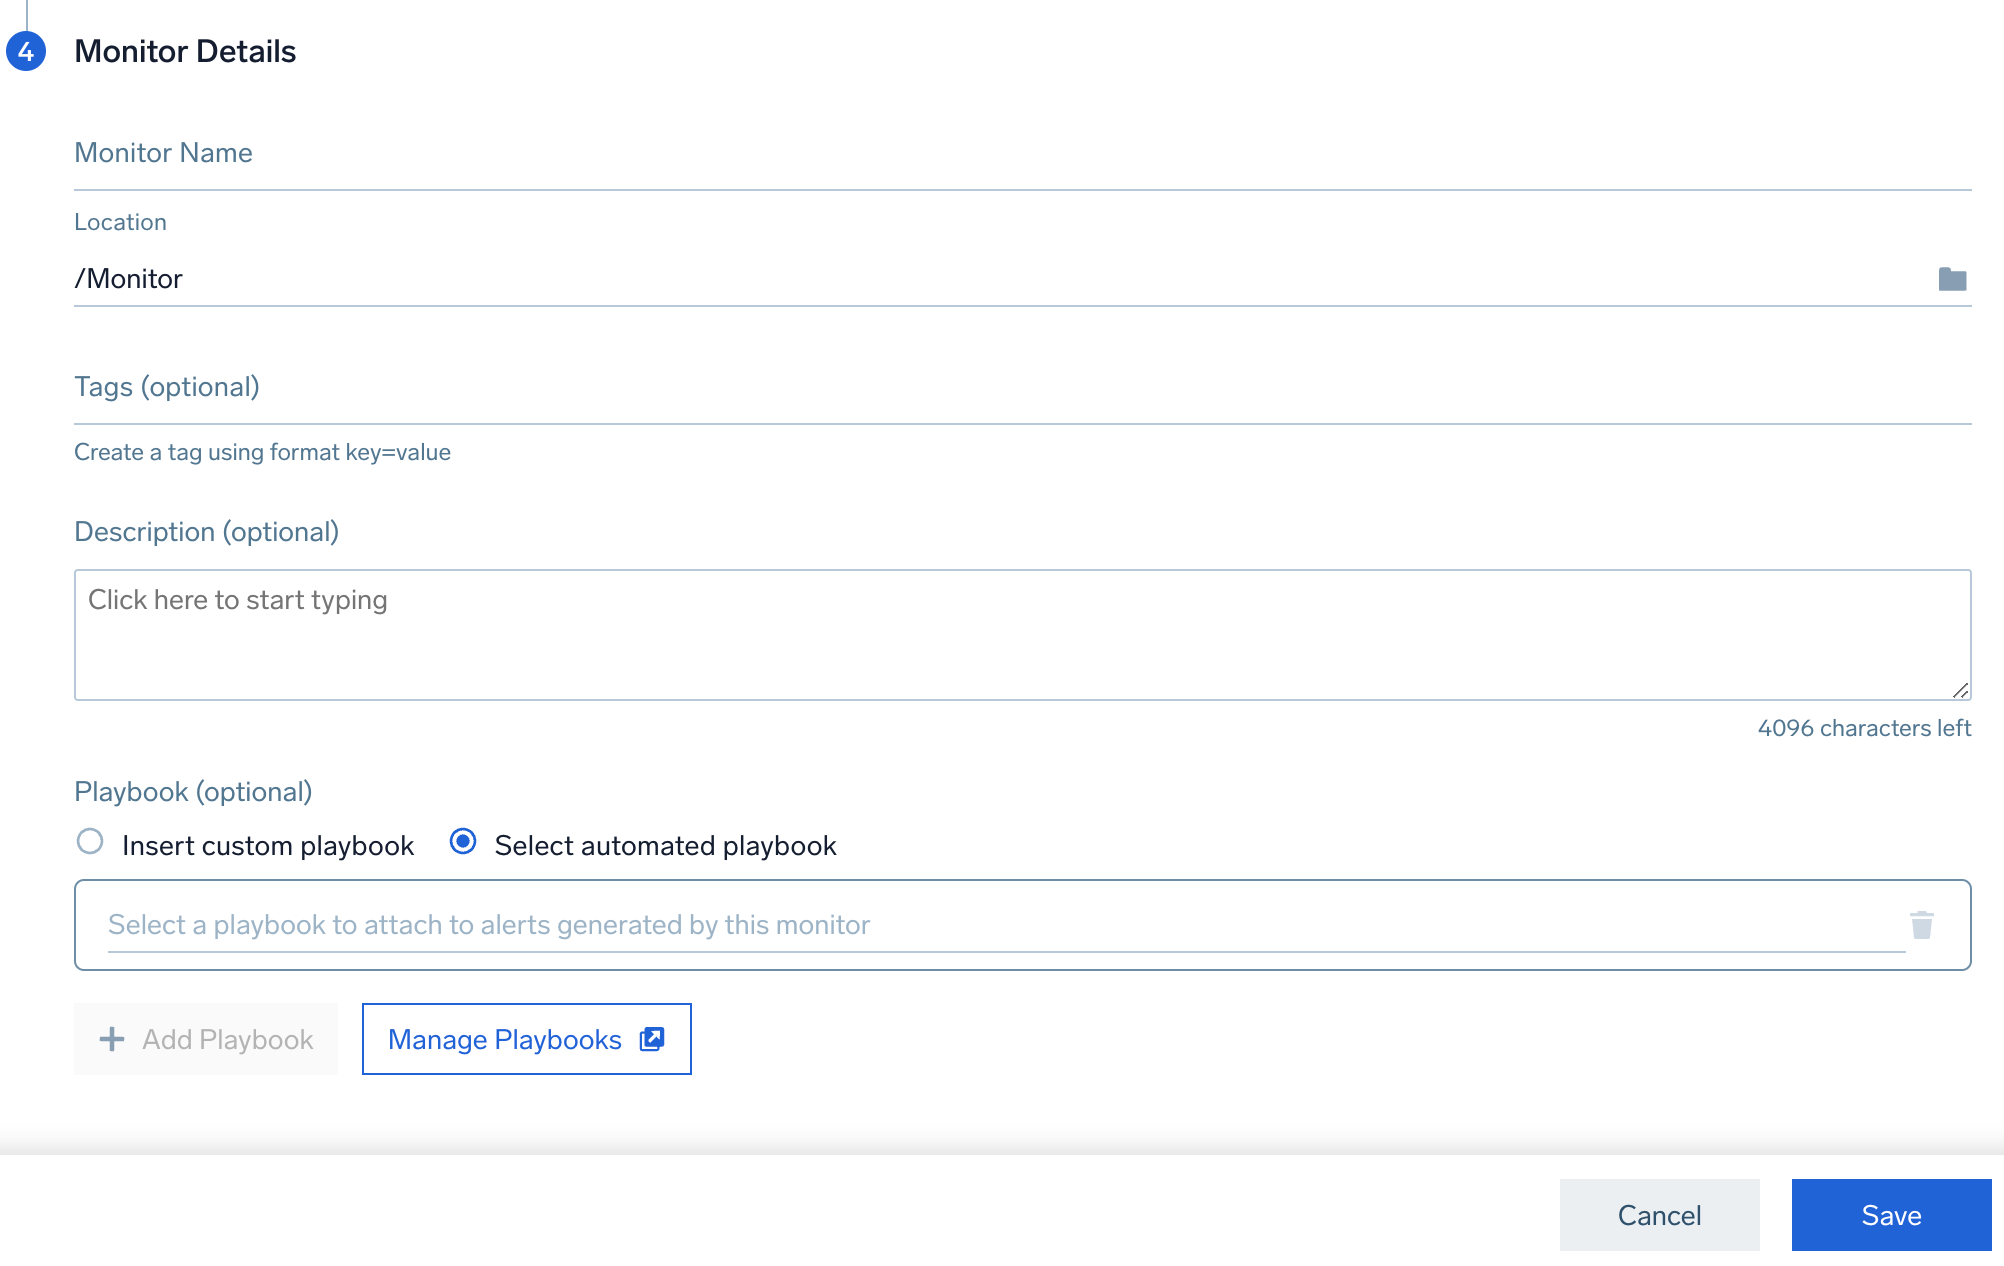
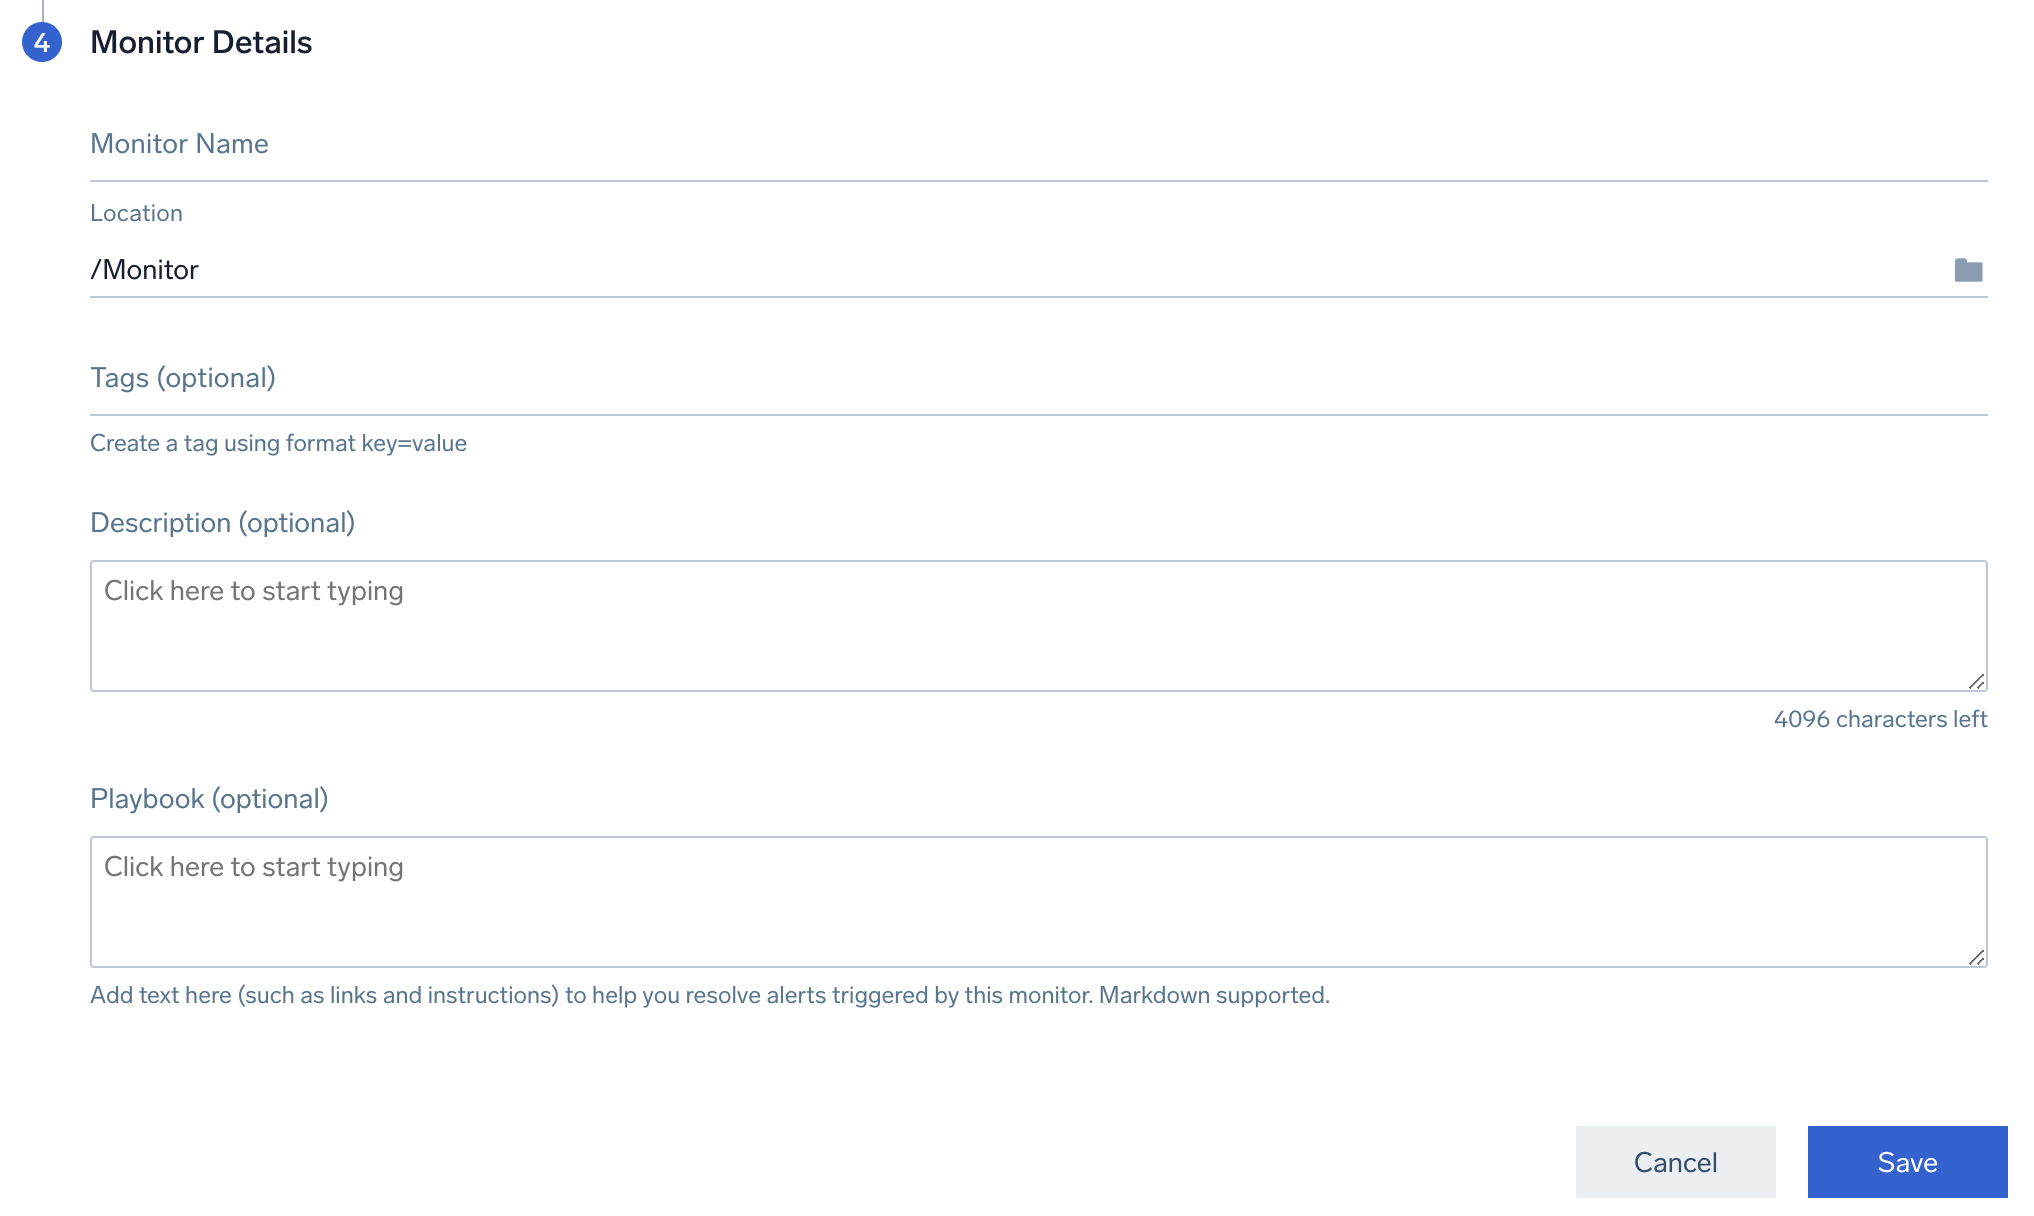
Edits to the 'Create a Monitor' article

diff --git a/docs/alerts/monitors/create-monitor.md b/docs/alerts/monitors/create-monitor.md
@@ -10,7 +10,9 @@ This topic shows you how to create a monitor.
 
 Use the **New Monitor** dialog to create a monitor:
 
-<details><summary><strong>New Monitor dialog</strong> (expand to view)</summary>
+<details><summary><strong>New Monitor</strong> dialog (expand to view)</summary>
+
+<!-- At "smart alerts" GA, add a screenshot that shows the "Anomaly" detection method to the right of "Static" and "Outlier". -->
 
  <img src={useBaseUrl('img/monitors/new-monitor-dialog.png')} alt="New Monitor dialog" style={{border: '1px solid black'}} width="800"/>
 
@@ -31,7 +33,7 @@ Use the **New Monitor** dialog to create a monitor:
 
 #### From your Log Search
 
-1. Click the kebab icon in the upper right corner, then **Create a Monitor**.
+Click the kebab icon in the upper right corner, then **Create a Monitor**.
 
 {@import ../../reuse/alerts-timeslice.md}
 
@@ -60,18 +62,21 @@ Note that the same threshold translating functionality supports to [Opening Aler
 
 The first step when you create a new monitor is to set the trigger conditions.
 
+<!-- At "smart alerts" GA, add a screenshot that shows the "Anomaly" detection method to the right of "Static" and "Outlier". -->
+
 <img src={useBaseUrl('img/monitors/new-monitor-set-trigger-conditions.png')} alt="Set trigger conditions" style={{border: '1px solid black'}} width="800"/>
 
 ### Select monitor type and detection method
 
-1. Select a **Monitor Type** (Logs, Metrics, or SLO). <br/><img src={useBaseUrl('img/monitors/trigger-conditions-monitor.png')} alt="icon" width="300"/>
+1. Select a **Monitor Type**. <br/><img src={useBaseUrl('img/monitors/trigger-conditions-monitor.png')} alt="icon" width="300"/>
    * **Logs**. Creates alerts based on a [log search](/docs/search/). 
    * **Metrics**. Creates alerts based on [metrics queries](/docs/metrics/metrics-queries/).
    * **SLO**. Creates alerts based on a [Service Level Objectives (SLO)](/docs/observability/reliability-management-slo/).
-1. Select a **Detection Method** (Static or Outlier). <br/><img src={useBaseUrl('img/monitors/monitor-detection-methods.png')} alt="icon" width="310"/>
+1. Select a **Detection Method**. <br/><img src={useBaseUrl('img/monitors/monitor-detection-methods.png')} alt="icon" width="310"/> <!-- At "smart alerts" GA, add a screenshot that shows the "Anomaly" detection method to the right of "Static" and "Outlier". -->
    * **Static** allows you to set specific threshold conditions. Use this detection method when you are alerting on KPIs that have well defined and constant thresholds for what's good and bad. For example, infrastructure metrics like CPU utilization, and memory.
    * **Outlier** lets you detect an unusual change or a spike in a time series of a key indicator. Use this detection method when you are alerting on KPIs that don't have well-defined constant thresholds for what's good and bad. You want the Monitor to automatically detect and alert on unusual changes or spikes on the alerting query. For example, application KPIs like page request, throughput, and latency. 
-   * **Anomaly** lets you uncover unusual behavior identified by Sumo Logic's anomaly detection. Sumo Logic applies advanced analytics techniques, including machine learning and behavioral analytics, to detect anomalies and identify suspicious patterns of activity. It establishes baselines for normal behavior so you can receive alerts when deviations or unusual activities are detected.
+<!--    * **Anomaly** lets you uncover unusual behavior identified by anomaly detection. (The **Anomaly** method applies only to the **Logs** monitor type.) Sumo Logic applies advanced analytics techniques, including machine learning and behavioral analytics, to detect anomalies and identify suspicious patterns of activity. It establishes baselines for normal behavior so you can receive alerts when deviations or unusual activities are detected.
+-->
 
 ### Provide a query (logs and metrics only)
 
@@ -87,13 +92,15 @@ The first step when you create a new monitor is to set the trigger conditions.
 
 ### Trigger Type
 
-1. Specify the **Trigger Type**. A Monitor can have one critical, warning, and missing data trigger condition, each with one or more notification destinations. Triggers have different options depending on the query and alert type. Click the **Expand** button next to the query type you're using for configuration details.
+Specify the **Trigger Type**. A Monitor can have one critical, warning, and missing data trigger condition, each with one or more notification destinations. Triggers have different options depending on the query and alert type. Click the **Expand** button next to the query type you're using for configuration details.
 
 <details><summary><strong>Logs Trigger Types</strong> (expand to view)</summary>
 
 #### Logs Trigger Types
 
-![Logs monitors.png](/img/monitors/logs-monitors.png)
+<!-- At "smart alerts" GA, add a screenshot that shows the "Anomaly" detection method to the right of "Static" and "Outlier". -->
+
+<img src={useBaseUrl('img/monitors/logs-monitors.png')} alt="icon" width="800"/> 
 
 Trigger alerts on:<br/>![trigger alerts on field.png](/img/monitors/trigger-alerts-field.png)
 
@@ -175,6 +182,22 @@ Recover
 * Automatically: Sumo Logic automatically resolves the incident when the resolution condition is satisfied.
 
     `Recover automatically when data becomes available for the affected time span.`
+
+<!-- At "smart alerts" GA, add the following:
+
+##### Anomaly detection method
+
+**Logs Trigger Type: Critical** (for **Anomaly** detection type only)
+
+ <img src={useBaseUrl('img/monitors/monitor-anomaly-logs.png')} alt="Monitor anomaly logs" style={{border: '1px solid black'}} width="800" />
+
+| Parameter | Description |
+|:--|:--|
+| Detection Window | The duration of time to watch for anomalies. Select either 5 minutes, 10 minutes, 15 minutes, 30 minutes, 1 hour, 6 hours, 12 hours, or 24 hours.  |
+| Detector Sensitivity | Tunes the number of anomalous data points detected per day compared to the predicted baseline for the detection window. High sensitivity will result in more alerts and vice versa. |
+| Minimum Anomaly Count | The minimum number of anomalies to detect during the detection window before triggering an alert. For example, if the Detection Window is set to 5 minutes, and the Minimum Anomaly Count is set to 1, then an alert is triggered if 1 anomaly appears within a 5 minute timeframe. |
+
+-->
 
 </details>
 
@@ -308,6 +331,8 @@ To add notifications, click the **Add Notification** button. You can add more 
 
 The fourth step when you create a new monitor is to configure details.
 
+<!-- At "smart alerts" GA, add a screenshot that shows the new playbook UI elements (radio buttons "Insert custom playbook" and "Select automated playbook", and the "Manage Playbooks" button). -->
+
 <img src={useBaseUrl('img/monitors/new-monitor-details.png')} alt="
 Monitor details" style={{border: '1px solid black'}} width="800"/>
 
@@ -315,7 +340,11 @@ Monitor details" style={{border: '1px solid black'}} width="800"/>
 1. (Optional) Add one or more **Tags**. [Learn more here](/docs/alerts/monitors/settings#tags).
 1. (Optional) Add a **Description**.
 1. (Optional) Create or select an existing **Playbook**, which allows admins to codify tribal knowledge for an on-call so that they know what to do upon receiving an alert. Markdown is supported.
-
+<!--  At "smart alerts" GA, add the following:
+<br/>Select one of the following: 
+   * **Insert custom playbook**. Input your own playbook to run when the alert is fired. 
+   * **Select automated playbook**. Select an existing playbook from the Automation Service to run when an alert is fired. Click **Manage Playbooks** button to manage the playbooks. See [Use Playbooks with Monitors](/docs/alerts/monitors/use-playbooks-with-monitors) for more information.
+-->
 
 ## Other Configurations
 

diff --git a/docs/alerts/monitors/use-playbooks-with-monitors.md b/docs/alerts/monitors/use-playbooks-with-monitors.md
@@ -1,0 +1,9 @@
+---
+id: use-playbooks-with-monitors
+title: Use Playbooks with Monitors
+description: Learn how to use playbooks with monitors.
+---
+
+import useBaseUrl from '@docusaurus/useBaseUrl';
+
+Text
